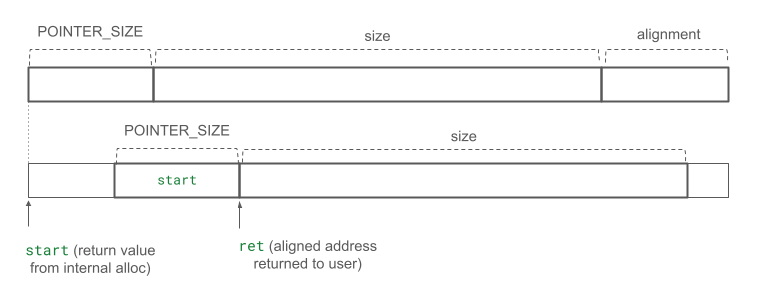
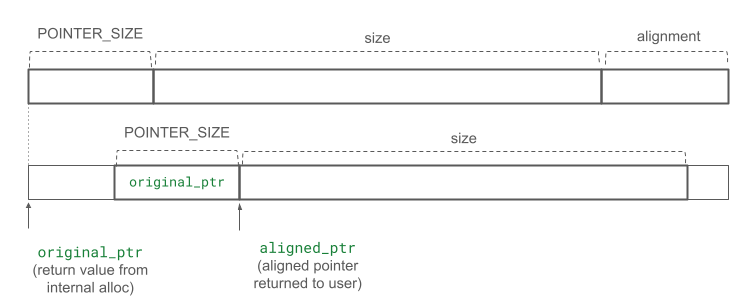
Update docs

diff --git a/docs/heaphook_alignment.md b/docs/heaphook_alignment.md
@@ -6,10 +6,10 @@ A critical requirement is lockless operation for performance optimization.
 ![heaphook alignment](./heaphook_alignment.png "heaphook alignment")
 
 When a user program calls `aligned_alloc(size, alignment)`, the internal allocator's allocation function is called with a size of `POINTER_SIZE + size + alignment`.
-The address returned by the internal allocator is defined as `start`.
-The aligned address provided to the user program, `ret`, is calculated as `ret = (start + POINTER_SIZE + alignment - 1) & !(alignment - 1);`.
-This ensures that `ret` is aligned to `alignment` and the memory region provided to the user program fits within the initially allocated area from the internal allocator.
-Additionally, the address value `start` is stored at the location indicated by `ret - POINTER_SIZE`.
+The pointer returned by the internal allocator is defined as `original_ptr`.
+The aligned pointer provided to the user program, `aligned_ptr`, is calculated as `aligned_ptr = (original_ptr + POINTER_SIZE + alignment - 1) & !(alignment - 1);`.
+This ensures that `aligned_ptr` is aligned to `alignment` and the memory region provided to the user program fits within the initially allocated area from the internal allocator.
+Additionally, the pointer value is stored at the location indicated by `aligned_ptr - POINTER_SIZE`.
 
-When the user program calls `free()`, `ret` is passed as the argument.
-At this point, the address value to be passed to the internal allocator's `free()` function can be calculated as `*(ret - POINTER_SIZE)`.
+When the user program calls `free()`, `aligned_ptr` is passed as the argument.
+At this point, the pointer value to be passed to the internal allocator's `free()` function can be calculated as `*(aligned_ptr - POINTER_SIZE)`.
